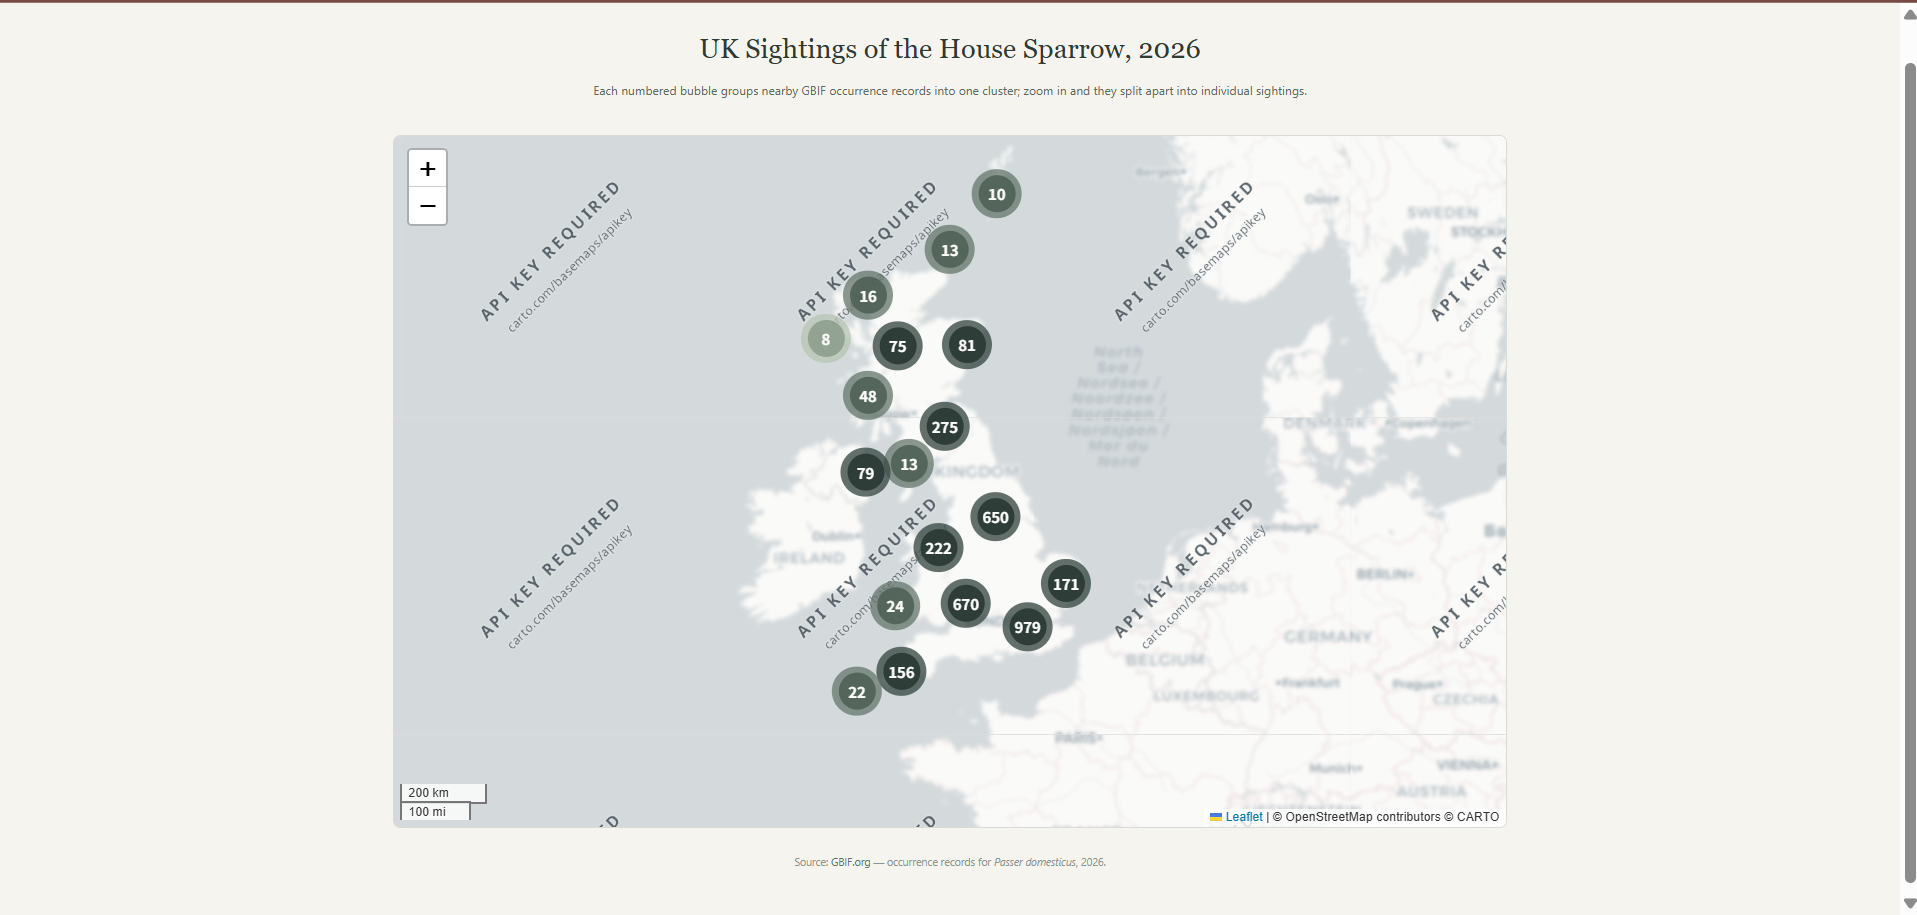
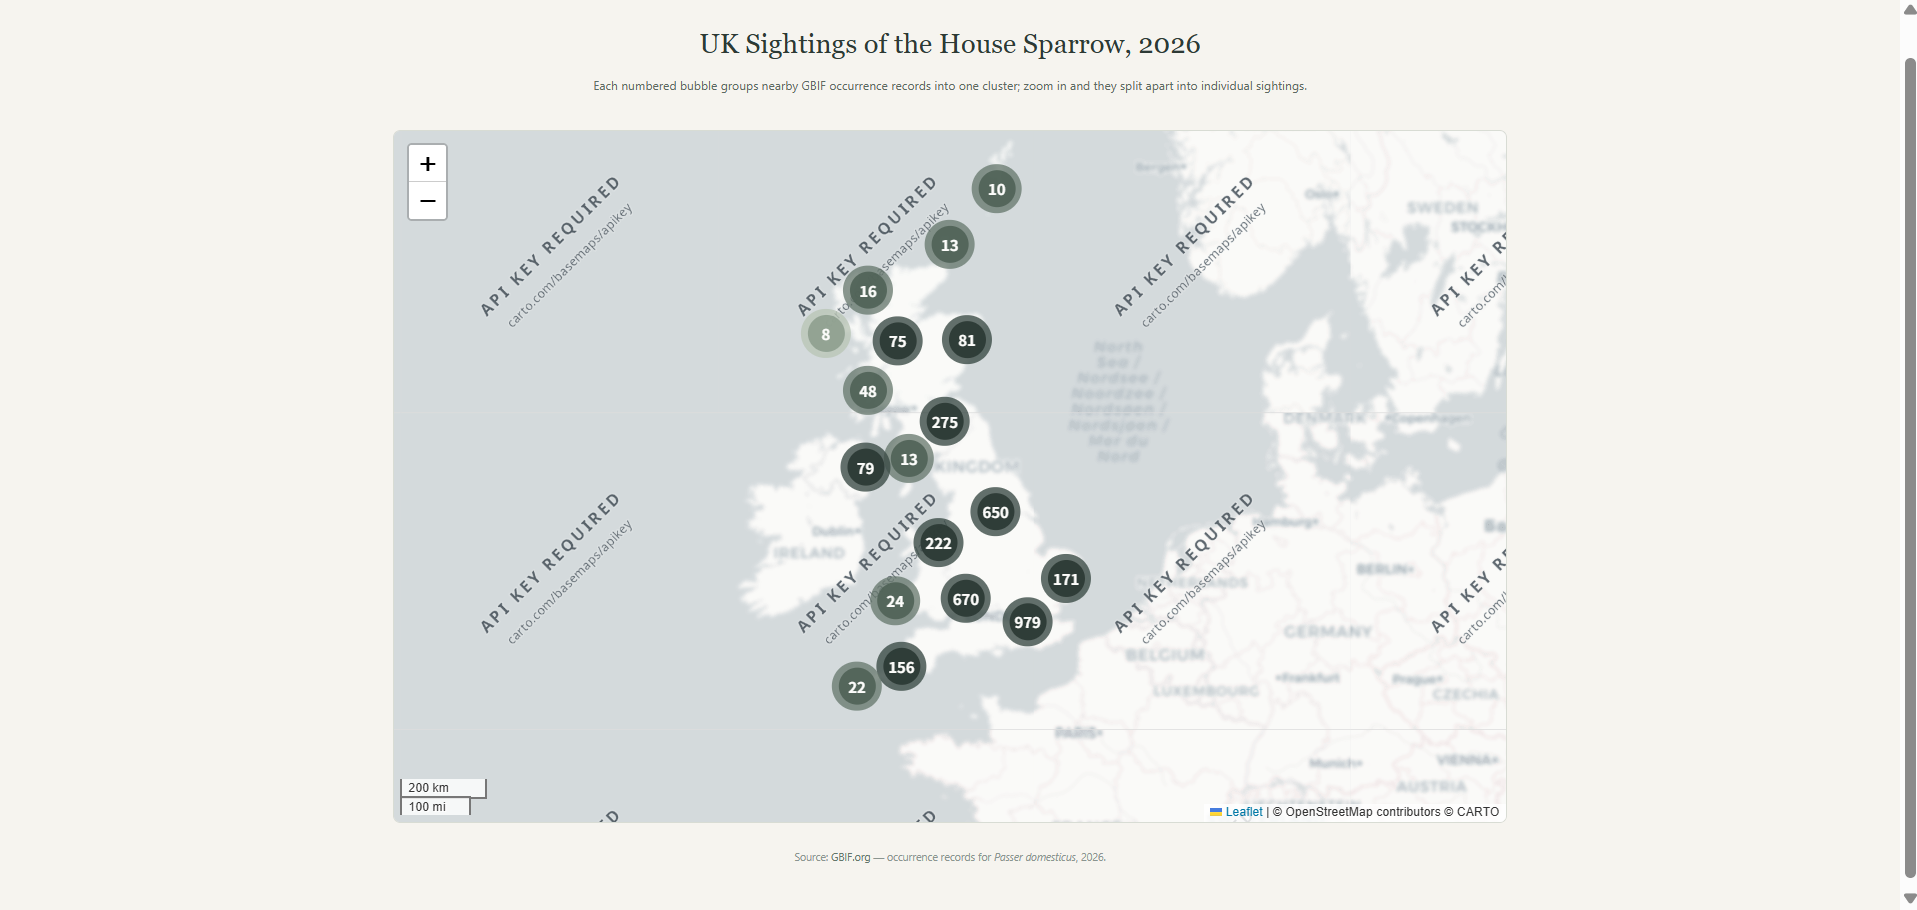
add output pic

diff --git a/README.md b/README.md
@@ -1,8 +1,10 @@
-# The phenomenon
+# House sparrow sightings, UK, 2026
+
+![Map of House Sparrow sightings across the UK, grouped into clusters](out/out.png)
 
 (out/plot.html) is the real picture — it's an interactive map, so GitHub can only show a screenshot above. Open the HTML file in a browser to zoom and watch the clusters split apart.
-## The phenomenon
 
+## The phenomenon
 <!-- What goes up and down, and why you looked at it. -->
 I looked at the distribution of House Sparrow observations in the United Kingdom in 2026. I chose this phenomenon because bird observations can show where a species is recorded more often in different parts of the country. I wanted to see whether the observations are spread evenly across the UK or concentrated in particular areas.
 
